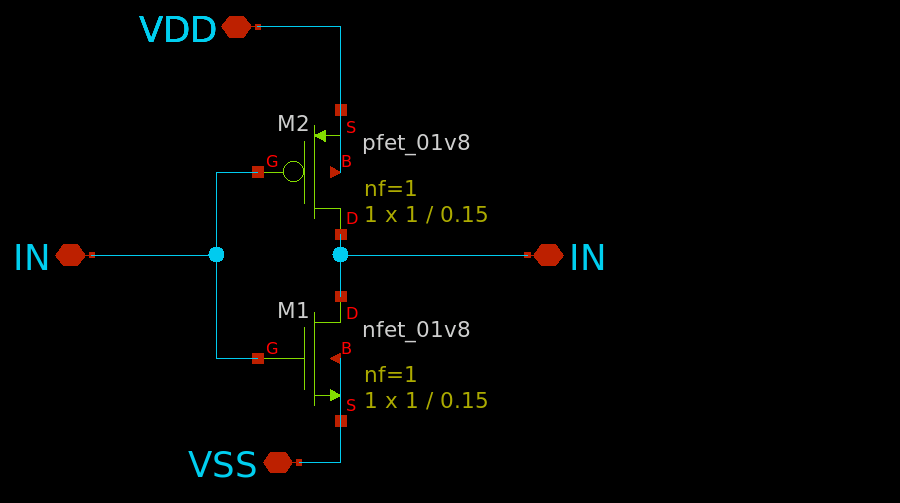
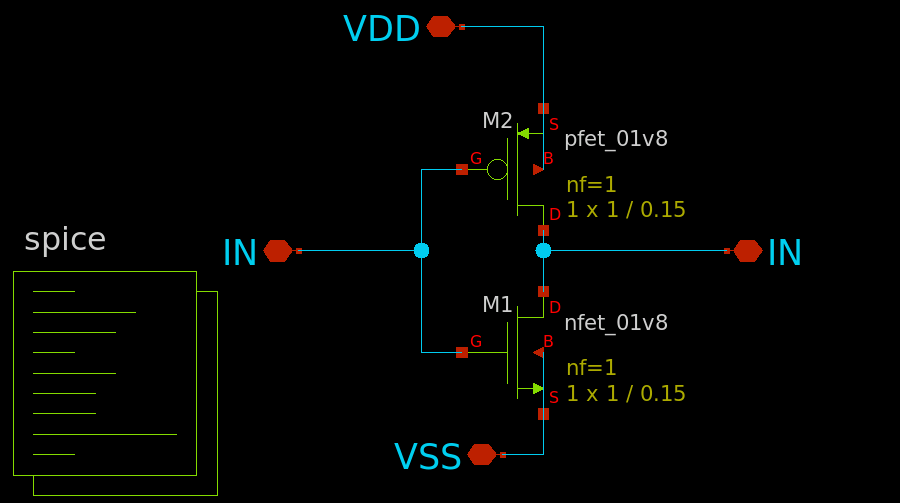
Basic inverter, adding netlisting

diff --git a/inverter/inverter.py b/inverter/inverter.py
@@ -17,18 +17,17 @@ def _():
 
 
 @app.cell
-def _():
-    import subprocess
-    def xschem_draw(file):
-        subprocess.run(f"xschem --png --plotfile {file}.png {file}.sch --quit", shell=True, check=True)
-    xschem_draw("inverter/inverter")
-    return
-
-
-@app.cell
 def _(mo):
-    mo.md(r"![testout.png](./inverter.png)")
-    return
+    import subprocess
+    def xschem_draw(path,file):
+        subprocess.run(f"xschem --png --plotfile {path}/{file}.png {path}/{file}.sch --quit", shell=True, check=True)
+        _src = (
+        f"{path}/{file}.png"
+        )
+        return mo.image(src=_src)
+    xschem_draw("inverter","inverter")
+
+    return (subprocess,)
 
 
 @app.cell
@@ -40,6 +39,49 @@ def _(mo):
         Then the IO from the default library.
         """
     )
+    return
+
+
+@app.cell
+def _(mo):
+    mo.md(r"We can now netlist using xschem!")
+    return
+
+
+@app.cell
+def _(subprocess):
+    def xschem_netlist(path,file):
+        command = f"xschem --netlist --spice {path}/{file}.sch --netlist_path {path} -N {file}.spice --quit"
+        subprocess.run(command, shell=True, check=True)
+    
+    xschem_netlist("inverter","inverter")
+
+    return
+
+
+@app.cell
+def _(mo):
+    slider = mo.ui.slider(1, 10)
+    mo.md(f"Choose a value: {slider}")
+    return
+
+
+@app.cell
+def _(mo):
+    mo.md(r"Finally use the netslist in pyspice to simulate!")
+    return
+
+
+@app.cell
+def _():
+    from PySpice.Spice.NgSpice.Shared import NgSpiceShared
+    ngspice = NgSpiceShared.new_instance()
+    file = open("inverter/inverter.spice", 'r')
+    circuit = file.read()
+    print(circuit)
+    ngspice.load_circuit(circuit)
+    # fhdjhfdj.voltage = slider.value
+    ngspice.run()
     return
 
 

diff --git a/test.py b/test.py
@@ -85,7 +85,7 @@ def _(plot):
     import matplotlib.pyplot as plt
 
     fig, ax = plt.subplots()
-    ax.plot(plot['V(5)']._data)
+    ax.plot(plot['V(2)']._data)
 
     # ax.set(xlabel='time (s)', ylabel='voltage (mV)',
     #        title='About as simple as it gets, folks')
